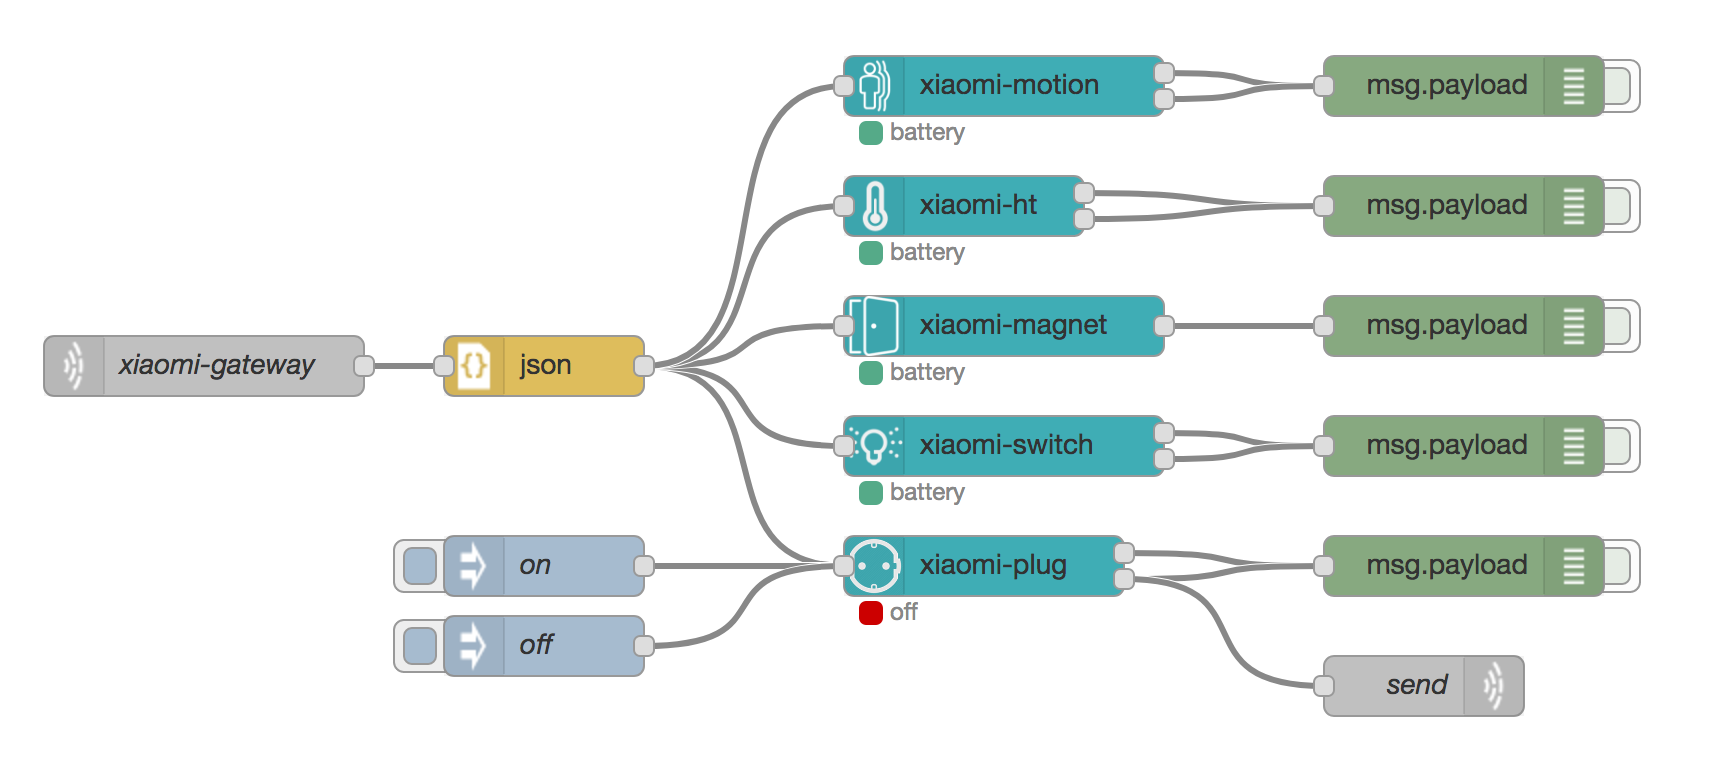
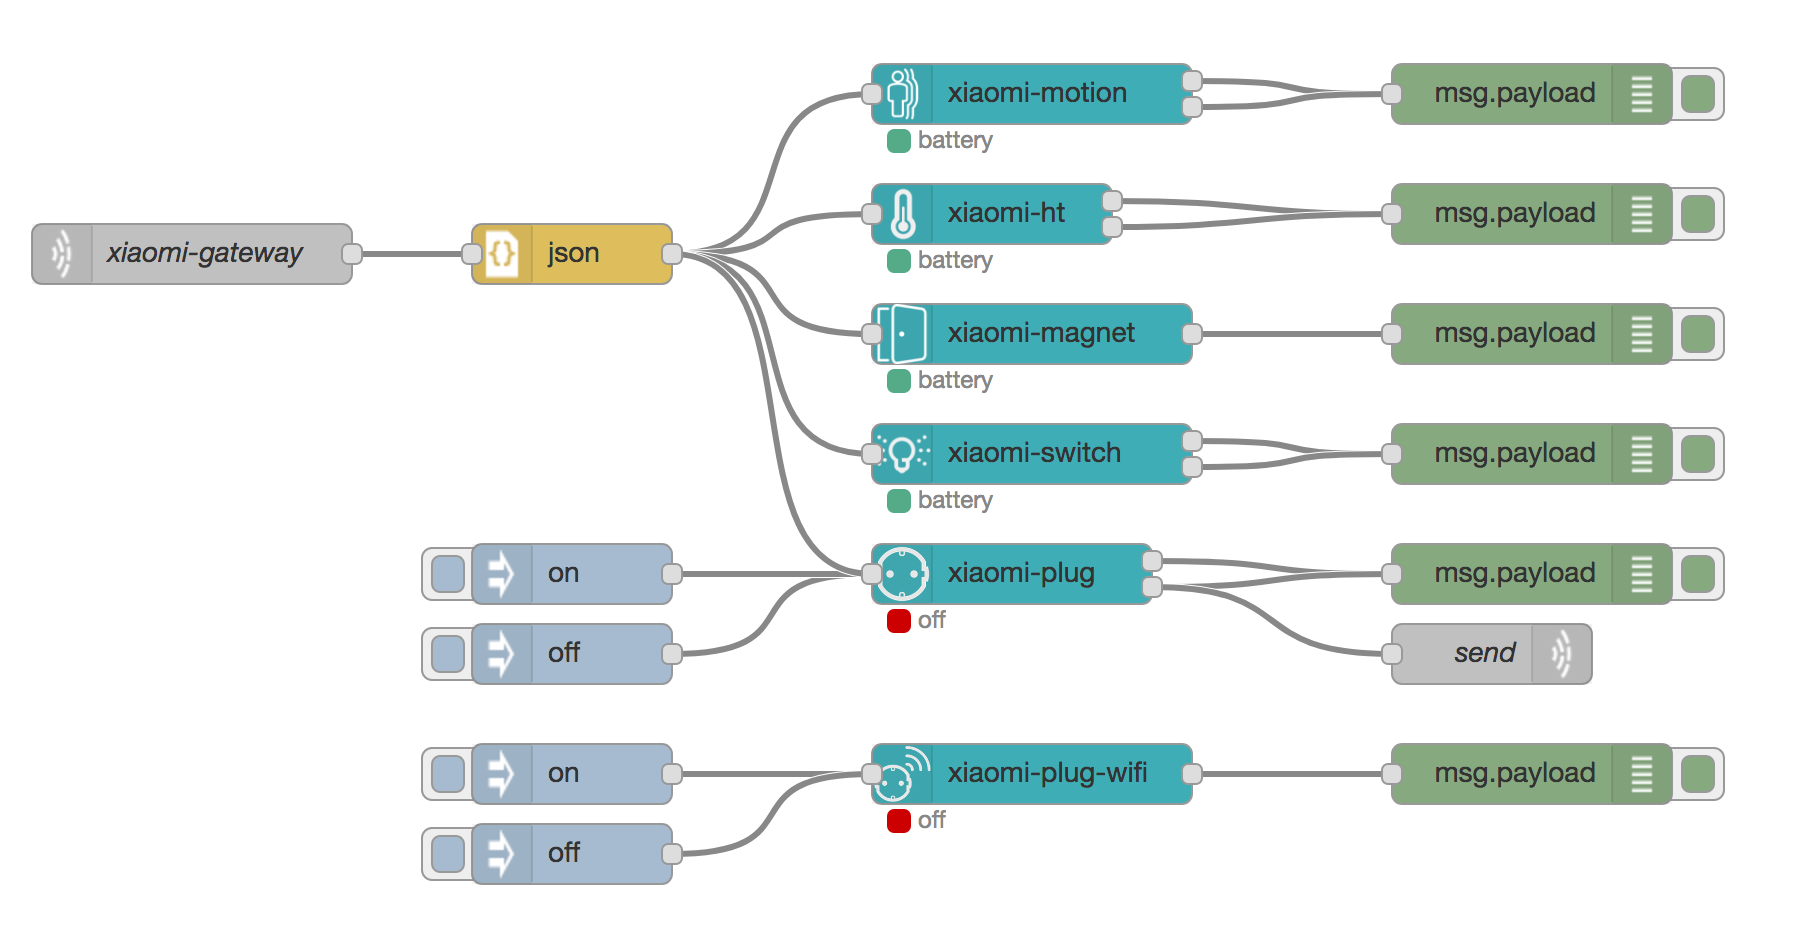
Added (basic) support for WiFi power plug

diff --git a/node-red-contrib-xiaomi-socket-wifi/xiaomi-socket-wifi.js b/node-red-contrib-xiaomi-socket-wifi/xiaomi-socket-wifi.js
@@ -1,0 +1,149 @@
+module.exports = function(RED) {
+    "use strict";
+    var mustache = require("mustache");
+    var crypto = require("crypto");
+    var miio = require("miio");
+
+    function XiaomiPlugWifiNode(config) {
+        RED.nodes.createNode(this, config);
+        this.ip = config.ip;
+        this.output = config.output;
+        this.onmsg = config.onmsg;
+        this.offmsg = config.offmsg;
+
+        var node = this;
+        var connectionState = "timeout";
+        var plug = {};
+        var retryTimer;
+
+        node.status({fill:"yellow", shape:"dot", text:"connecting"});
+
+        miio.device({ address: node.ip })
+            .then(function(result) {
+                if (result.type === "power-plug") {
+                    plug = result;
+                    node.status({fill:"green", shape:"dot", text:"connected"});
+                    connectionState = "connected";
+
+                    setTimeout(function() {
+                        if (result.power()['0']) {
+                            setState("on");
+                        } else {
+                            setState("off");
+                        }
+                    }, 1500);
+
+                    watchdog();
+
+                    plug.on('propertyChanged', function(e) {
+                        if (e.property === "power") {
+                            if (e.value['0']) {
+                                setState("on");
+                            } else {
+                                setState("off");
+                            }
+                        }
+                    });
+
+                }
+            })
+            .catch(function(error) {
+                node.status({fill:"red", shape:"dot", text:"time out"});
+                connectionState = "reconnecting";
+                watchdog();
+            });
+
+        node.on('input', function(msg) {
+            var payload = msg.payload;
+
+            if (payload == 'on') {
+                if (connectionState === "connected") {
+                    plug.setPower(true);
+                }
+            }
+
+            if (payload == 'off') {
+                if (connectionState === "connected") {
+                    plug.setPower(false);
+                }
+            }
+
+        });
+
+        this.on('close', function(done) {
+            if (retryTimer) {
+                clearTimeout(retryTimer);
+            }
+            if (plug) {
+                plug.destroy();
+            }
+            done();
+        });
+
+        var setState = function(state) {
+            var status = null;
+            var info = {"payload": {
+                    "id": plug.id,
+                    "type": plug.type,
+                    "model": plug.model,
+                    "capabilities": plug.capabilities,
+                    "address": plug.address,
+                    "port": plug.port,
+                    "power": plug.power()
+                }};
+
+            if (state === "on") {
+                node.status({fill:"green", shape:"dot", text:"on"});
+                status = {"payload": mustache.render(node.onmsg, info.payload)}
+            }
+            if (state === "off") {
+                node.status({fill:"red", shape:"dot", text:"off"});
+                status = {"payload": mustache.render(node.offmsg, info.payload)}
+            }
+
+            if (node.output == 0) {
+                status = info;
+            } else if (node.output == "1") {
+                status = {"payload": state}
+            } else if (node.output == "2") {
+                // do nothing, just send status parsed with mustache
+            }
+            node.send([status]);
+        };
+
+        var watchdog = function() {
+            var interval = 10;
+            retryTimer = setInterval(function() {
+                if (interval == 0) {
+                    miio.device({address: node.ip})
+                        .then(function (result) {
+                            if (connectionState === "reconnecting") {
+                                node.status({fill:"green", shape:"dot", text:"connected"});
+                                connectionState = "connected";
+
+                                setTimeout(function() {
+                                    if (result.power()['0']) {
+                                        setState("on");
+                                    } else {
+                                        setState("off");
+                                    }
+                                }, 1500);
+                            }
+                        })
+                        .catch(function (error) {
+                            connectionState = "reconnecting";
+                        })
+                    interval = 10;
+                } else {
+                    interval--;
+                    if (connectionState === "reconnecting") {
+                        node.status({fill: "red", shape: "dot", text: "retrying in " + interval + " sec."});
+                    }
+                }
+            }, 1000);
+        }
+    }
+
+    RED.nodes.registerType("xiaomi-plug-wifi", XiaomiPlugWifiNode);
+
+}

diff --git a/node-red-contrib-xiaomi-socket-wifi/xiaomi-socket-wifi.html b/node-red-contrib-xiaomi-socket-wifi/xiaomi-socket-wifi.html
@@ -1,0 +1,119 @@
+<script type="text/javascript">
+    RED.nodes.registerType('xiaomi-plug-wifi', {
+        category: 'xiaomi',
+        color: '#3FADB5',
+        defaults: {
+            name: {value: ""},
+            ip: {value: "", required: true},
+            onmsg: {value: ""},
+            offmsg: {value: ""},
+            output: {value: "0"}
+        },
+        inputs: 1,
+        outputs: 1,
+        outputLabels: ["Status"],
+        paletteLabel: "plug (wifi)",
+        icon: "outlet-wifi-icon.png",
+        label: function () {
+            return this.name || "xiaomi-plug-wifi";
+        },
+        oneditprepare: function() {
+            var node = this;
+
+            $("#node-input-output").change(function () {
+                if ($(this).val() == "2") {
+                    $(".node-input-msg").show();
+                } else {
+                    $(".node-input-msg").hide();
+                }
+            });
+
+        },
+        oneditsave: function() {
+
+        }
+    });
+</script>
+
+<script type="text/x-red" data-template-name="xiaomi-plug-wifi">
+    <div class="form-row">
+        <label for="node-input-name"><i class="icon-tag"></i> Name</label>
+        <input type="text" id="node-input-name" placeholder="Name">
+    </div>
+    <div class="form-row">
+        <label for="node-input-ip"><i class="icon-tag"></i> Ip</label>
+        <input type="text" id="node-input-ip" placeholder="ip address">
+    </div>
+    <div class="form-row">
+        <label for="node-input-output"><i class="icon-tag"></i> Output</label>
+        <select id="node-input-output" style="width:70%;">
+            <option value="0">Full data</option>
+            <option value="1">Just values</option>
+            <option value="2">Template</option>
+        </select>
+    </div>
+    <div class="form-row node-input-msg">
+        <label for="node-input-onmsg"><i class="fa fa-power-off"></i> On msg</label>
+        <input type="text" id="node-input-onmsg">
+    </div>
+    <div class="form-row node-input-msg">
+        <label for="node-input-offmsg"><i class="fa fa-power-off"></i> Off msg</label>
+        <input type="text" id="node-input-offmsg">
+    </div>
+</script>
+
+<script type="text/x-red" data-help-name="xiaomi-plug-wifi">
+    <p>The Xiaomi plug (wifi) node</p>
+
+    <p>This is the wiFi plug (socket). To control the Wifi-Plug, extensive use is made of the miio library created by <a href="https://github.com/aholstenson/miio">Andreas Holstenson</a>. Make sure to check his page for compatible devices.</p>
+
+    <h3>Inputs</h3>
+    <dl class="message-properties">
+        <dt>payload
+            <span class="property-type">string</span>
+        </dt>
+        <dd><code>on</code> or <code>off</code>.</dd>
+    </dl>
+
+    <h3>Outputs</h3>
+    <ol class="node-ports">
+        <li>Status output
+            <dl class="message-properties">
+                <dt>payload <span class="property-type">string | json</span></dt>
+                <dd>raw data, value or template.</dd>
+            </dl>
+        </li>
+    </ol>
+
+    <h3>Details</h3>
+    <p>On the input you can send the string <code>on</code> to switch the plug on. To turn it off just send the string <code>off</code></p>
+    <p>Output 1 reports the status</p>
+
+    <p>Three output types are supported:
+        <ul>
+            <li>Full data</li>
+            <li>Just values</li>
+            <li>Template</li>
+        </ul>
+    </p>
+
+    <h4>Full data</h4>
+    <p>Passes a json object with detailed information about the plug. Use this if you need the raw data.</p>
+    <h4>Just values</h4>
+    <p>Only passes the values <code>on</code> or <code>off</code></p>
+    <h4>Template</h4>
+    <p>Use your own template to pass the values on. The template can contain <a href="http://mustache.github.io/mustache.5.html">mustache-style</a> tags.
+        Any property from the data section of the full object can be used.</p>
+
+    <p>Sample message full data:</p>
+    <p><pre>
+    {
+        "type": "power-plug",
+        "model": "chuangmi.plug.m1",
+        "capabilities: [ {'0': "power-channels"} ],
+        "address": "192.168.178.31",
+        "port": 54321,
+        "power": { '0': false }
+               }"
+    }</pre></p>
+</script>

diff --git a/README.md b/README.md
@@ -9,12 +9,14 @@ The following devices are currently supported:
 * Button switch
 * Motion sensor
 * Power plug (zigbee)
+* Power plug (wifi)
 
 ## Preperation
 To receive the gateway json messages on your network you need to enable the developer mode, aka LAN mode in the gateway.
 
 A UDP input node is needed to receive the json messages. An UDP output node to send command's to the gateway.
 
+To control the Wifi-Plug, extensive use is made of the miio library created by [Andreas Holstenson](https://github.com/aholstenson/miio). Make sure to check his page for compatible devices.
 
 ## Install
 
@@ -26,6 +28,8 @@ npm install node-red-contrib-xiaomi-devices
 ## Usage
 
 From the Xiaomi configurator screen add your different devices by selecting the type of device and a readable description. The readable discription is used on the different edit screen of the nodes to easily select the device you associate to the node.
+
+Note that the Wifi power plug is not configured through the configurator as it is not connected to the gateway. 
 
 The Xiaomi configurator screen with ease of use to configure your different devices.
 
@@ -57,5 +61,6 @@ Here an example of how to use the different nodes.
 
 
 ## Roadmap
-* Support for other devices like the smart-socket WiFi
+* ~~Support for other devices like the smart-socket WiFi~~ Done!
 * Import (new) devices directly from the gateway
+
